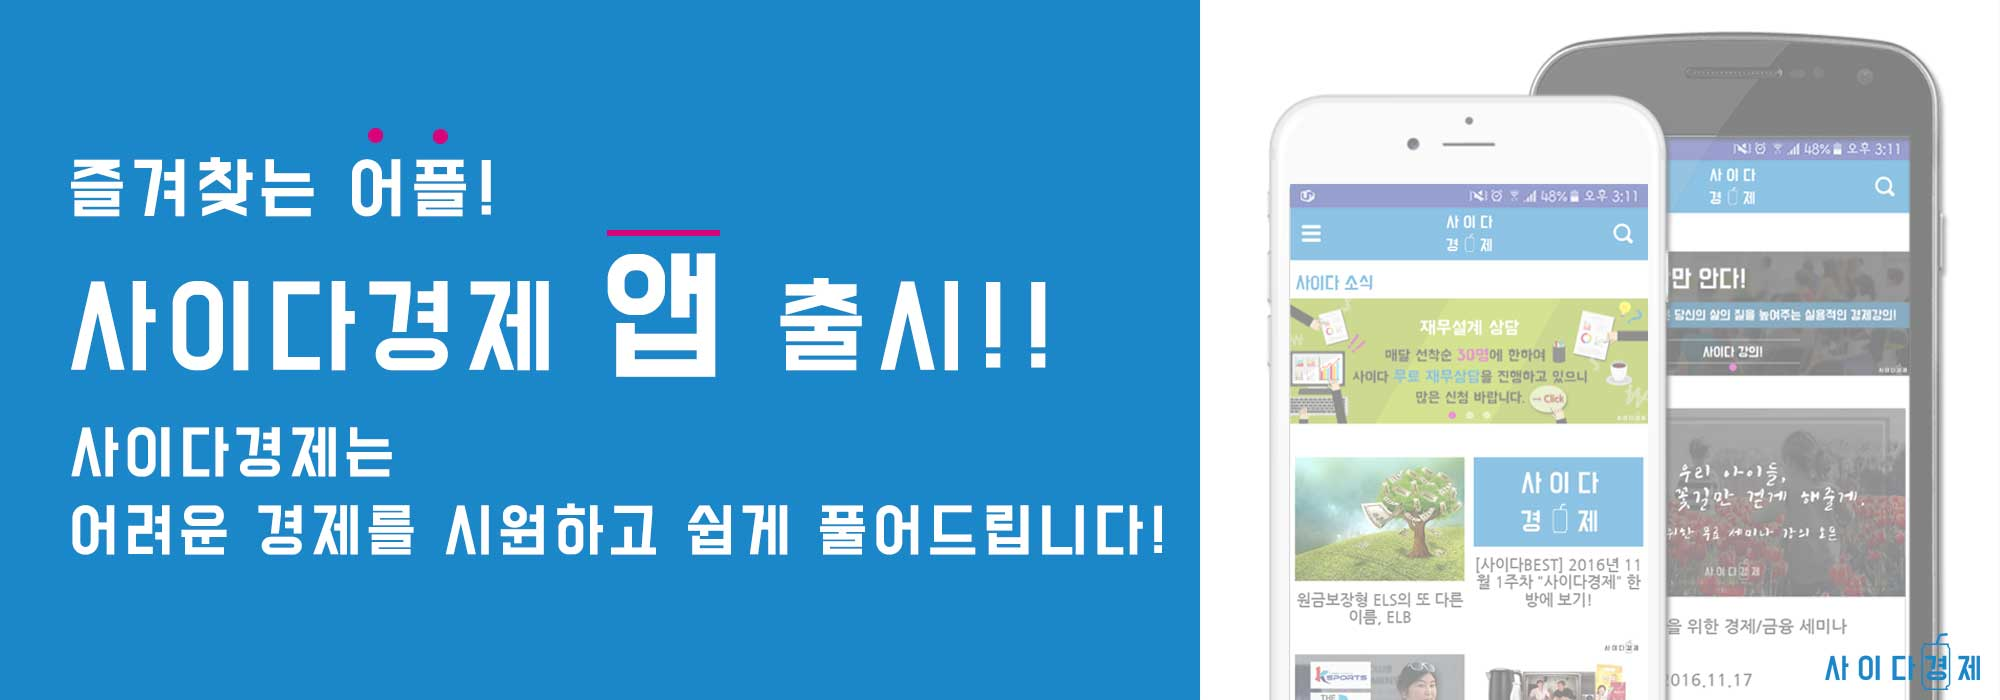
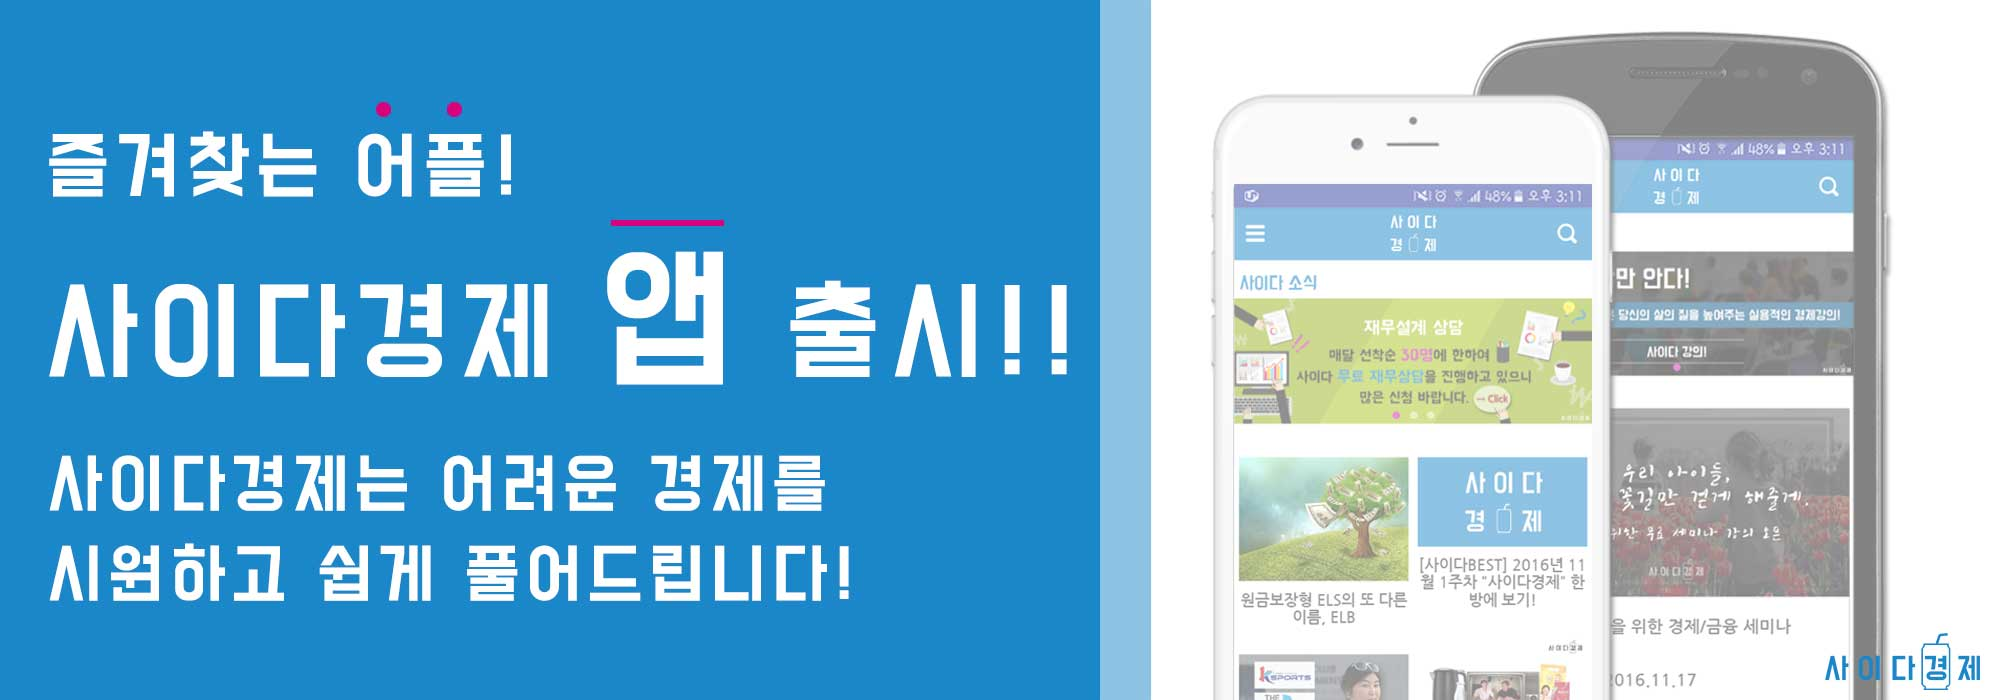
앱 수정

diff --git a/public/css/cid_main.css b/public/css/cid_main.css
@@ -29,8 +29,8 @@
 .main-menu{display:none;}
 .appbanner{display:block; margin-bottom:10px;}
 .appbanner-bg{background-image:url(/page_imgs/main_img/mob_bg-appbanner2.jpg);}
-.appbanner-bg .ul-place{left:56%; bottom:20%;}
-.appbanner-bg ul li{width:30%; float:none;}
+.appbanner-bg .ul-place{left:50%; bottom:8%;}
+.appbanner-bg ul li{width:42%; float:none;}
 .web-main-banner{display:none;}
 .mob-main-banner{display:block;}
 .mob-main-banner{margin-bottom:10px;}
